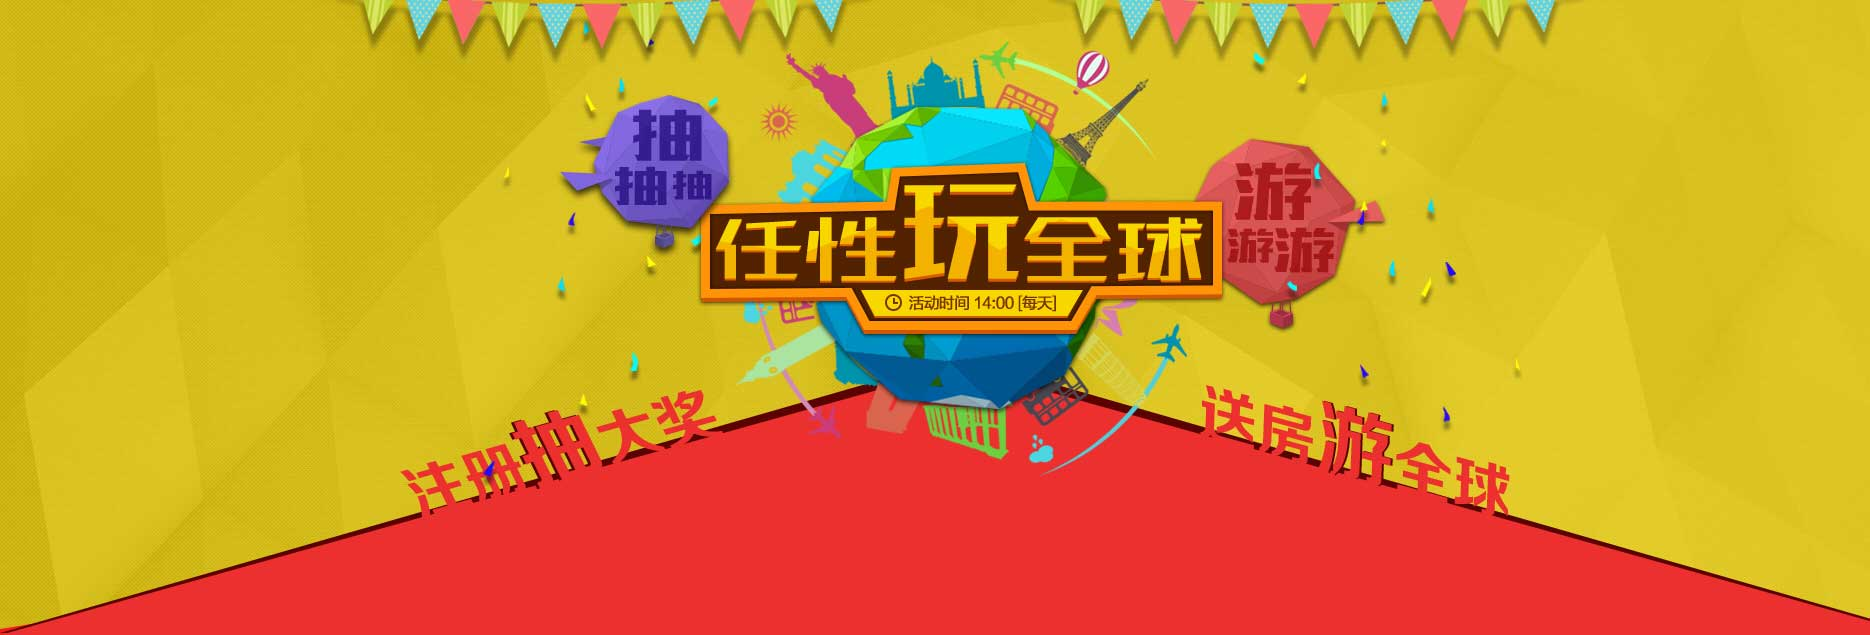
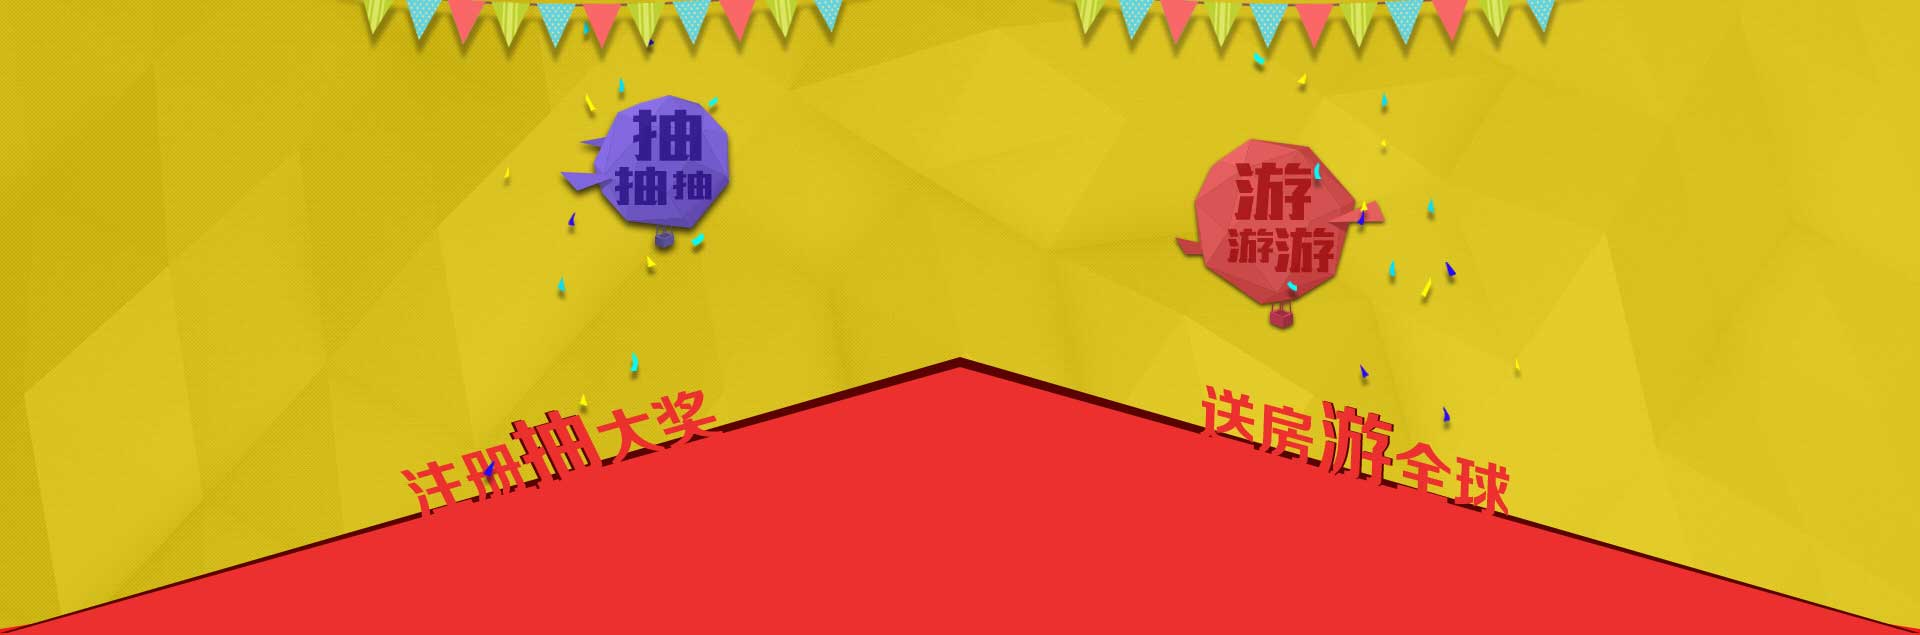
地球自旋动画加入抽奖。

diff --git a/OnlnTest/Heivr/Mre/PC_抽奖.html b/OnlnTest/Heivr/Mre/PC_抽奖.html
@@ -272,6 +272,13 @@
 	</style>
 
 	<div class="cnApp_Header">
+		<div class="cnApp_EarthDiv">
+			<img id="k_Earth" src="images/抽奖/地球.png" />
+		</div>
+		<div class="cnApp_CptnDiv">
+			<img src="images/抽奖/标题文字.png" class="" />
+		</div>
+
 		<div class="cnApp_Join">
 			<div id="k_Draw" class="cnApp_BtnDiv cnApp_Draw">
 				<span class="cnApp_Btn">我要抽奖</span>
@@ -341,9 +348,10 @@
 						</h3>
 						<p>
 							2015年1月10日至3月16日。每期活动时间为前一天14:00:00至当日13:59:59。
+
 						</p>
 						<p>
-							(其中，第一期活动时间为1月10日0:00:00至17:59:59，第二期活动时间为1月10日18:00:00至1月11日14:29:59)
+							(其中，第一期活动时间为1月10日0:00:00至13:59:59)
 						</p>
 						<h3 class="cnApp_hn">
 							<strong>奖品内容:</strong>
@@ -439,7 +447,7 @@
 				</div>
 
 				<div class="cnApp_Declaration">
-					<span class="cnApp_Text">●说明：本活动最终解释权在分权宝·全球度假俱乐部，因上证、深圳指数无法预测，保证活动公开、公正性。</span>
+					<span class="cnApp_Text">●说明：本活动最终解释权归分权宝·全球度假俱乐部，因上证、深圳指数无法预测，保证活动公开、公正性。</span>
 				</div>
 			</div><!--cnApp_Env-->
 		</div>

diff --git a/OnlnTest/Heivr/Mre/css/抽奖.css b/OnlnTest/Heivr/Mre/css/抽奖.css
@@ -297,6 +297,26 @@
 	height: 635px;
 }
 
+	.cnApp_Header .cnApp_EarthDiv {
+		position: absolute;
+		left: 0px;
+		top: 50px;
+		width: 100%;
+		text-align: center;
+		/*padding-top: 160px;*/
+		z-index: 1;
+	}
+
+	.cnApp_Header .cnApp_CptnDiv {
+		position: absolute;
+		left: 0px;
+		top: 160px;
+		width: 100%;
+		text-align: center;
+		/*padding-top: 160px;*/
+		z-index: 2;
+	}
+
 	.cnApp_Header .cnApp_Join {
 		position: absolute;
 		left: 0px;
@@ -309,11 +329,12 @@
 
 	.cnApp_Header .cnApp_BtnDiv.cnApp_Draw {
 		display: inline-block;
-		padding: 10px 40px;
+		padding: 10px 80px;
 		border-radius: 5px;
 		background-color: rgb(255, 203, 0);
 		color: rgb(236, 48, 47);
 		box-shadow: 0px 5px 0px rgb(146, 117, 2), 0px 5px 10px rgb(0, 0, 0);
+		cursor: pointer;
 	}
 
 	.cnApp_Header .cnApp_People {

diff --git a/OnlnTest/Heivr/Mre/js/抽奖.js b/OnlnTest/Heivr/Mre/js/抽奖.js
@@ -77,6 +77,28 @@
 		})();
 	});
 
+	//【等到全部加装完后才执行的代码！】
+	$(window).load(function () {
+
+		// 地球旋转
+		(function () {
+			var l_Dom = document.getElementById("k_Earth");
+			nWse.stCssUtil.cAnmt(l_Dom,
+				{
+					"Wse_2dTsfm": [
+						{
+							c_Name: "rotate",
+							c_End: { w: -2 * Math.PI }
+						}
+					]
+				},
+				{
+					c_Dur: 10,
+					c_Tot: -1
+				});
+		})();
+	});
+
 })();
 
 /////////////////////////////////////////////////////////////////////////////////////////////////////////////////////////////////////////////////////
